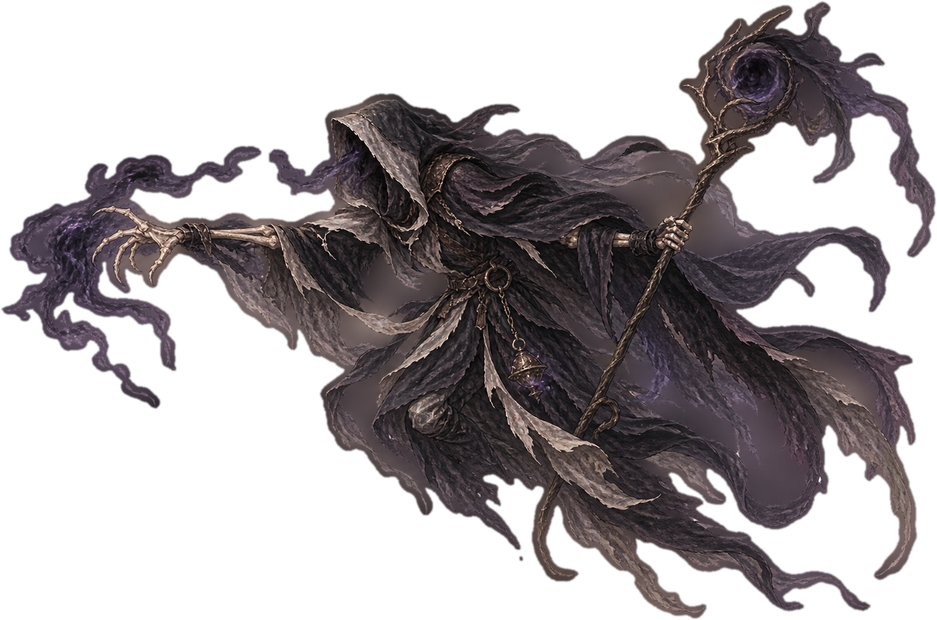
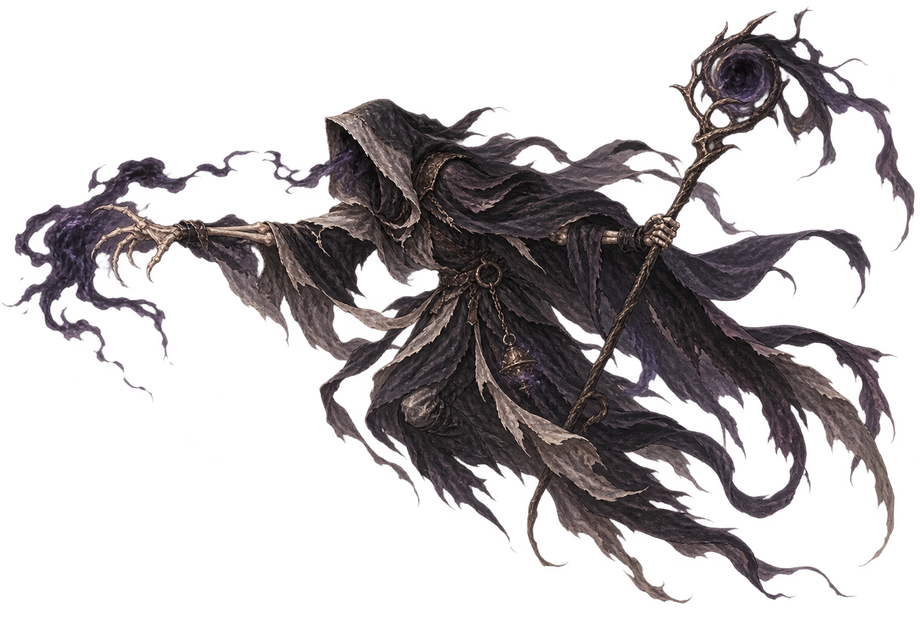
Build 217: fix squashed foe plates + restore the art's own transparency
Two defects, both mine.

TRANSPARENCY — the uploaded plates were already RGBA with real alpha.
Build 216 ran them through convert("RGB"), which DISCARDED that alpha,
then hand-derived a worse mask by detail-keying a "dark vignette" that
was only ever the image viewer compositing transparency onto black.
The plates are now rebuilt from the originals with their own alpha kept
— trimmed to the subject and resized to 620px, nothing else touched.

SQUASHING — the plate CSS was written for a <div> with background-image;
game.js later switched to an <img>, and the follow-up CSS edit silently
failed to apply. So the stylesheet still said `background-size: contain`
(inert on an <img>) while the <img> fell back to `object-fit: fill`,
stretching a 1.49:1 painting into a 0.89:1 slot — a ~40% horizontal
squash. Measured rendered aspect 0.89 vs natural 1.49; now 1.49 → 1.49.

Fit strategy: `contain` in that narrow slot would render a foe at ~60%
height — correct but timid — so plates fit to HEIGHT at natural aspect
and bleed sideways (capped at 168%) into the empty air between figures,
which is where the trailing cloaks live anyway.

Also resynced this branch, which had fallen behind main.

Claude-Session: https://claude.ai/code/session_01HVC1CsNs8KGkEP8oKPSikp

Changed region(s): [[0.0, 0.0, 1.0, 1.0]]

diff --git a/v2.1/styles.css b/v2.1/styles.css
@@ -3267,16 +3267,27 @@ html.diag-nofilter *, html.diag-nofilter *::before, html.diag-nofilter *::after 
    added row (or a device inset) pushed items off-screen. */
 #overlay.menu-screen #overlay-inner { max-height: 92%; display: flex; flex-direction: column; }
 #overlay.menu-screen .menu-list { overflow-y: auto; min-height: 0; padding: 2px; -webkit-overflow-scrolling: touch; }
-/* PAINTED FOE PLATES (Build 215) — a commissioned PNG stands in for the vector
-   silhouette.  Bottom-anchored and contained so a foe reads as standing ON the
-   line like the hero figures, with the same drop shadow so the two art styles
-   sit in one world. */
-.figure .fig-art .fig-png {
-  width: 100%; height: 100%;
-  background-repeat: no-repeat; background-position: center bottom; background-size: contain;
+/* PAINTED FOE PLATES (Build 217) — the plate is an <img>, so it needs
+   object-fit: WITHOUT it the browser defaults to `fill` and stretches a
+   1.5:1 painting into a ~0.9:1 slot (the squashed foes).  It also stays
+   hidden until it has really loaded, so a missing file leaves the vector
+   silhouette on screen instead of a hole. */
+.fig-png { display: none; }
+.fig-png.fig-png-on { display: block; }
+.figure .fig-art .fig-png.fig-png-on {
+  /* Fit to HEIGHT at natural aspect: these paintings are ~1.5:1 (long trailing
+     cloaks), and letting `contain` fit the narrow slot would render the foe at
+     ~60% height — small and timid.  The overflow bleeds sideways into the empty
+     air between figures, which is where the cloaks live anyway. */
+  position: absolute; left: 50%; bottom: 0; transform: translateX(-50%);
+  height: 100%; width: auto; max-width: 168%;
+  object-fit: contain; object-position: center bottom;
   filter: drop-shadow(0 6px 14px rgba(0,0,0,0.7));
 }
-.figure.floor-boss .fig-art .fig-png { filter: drop-shadow(0 14px 30px rgba(0,0,0,0.9)) drop-shadow(0 0 40px rgba(190,44,40,0.45)); }
+/* once a plate is up, the vector beneath it stands down */
+.figure .fig-art:has(.fig-png-on) .fig-vec { display: none; }
+.figure.floor-boss .fig-art .fig-png.fig-png-on { filter: drop-shadow(0 14px 30px rgba(0,0,0,0.9)) drop-shadow(0 0 40px rgba(190,44,40,0.45)); }
 /* the bestiary thumbnail uses the same plate at card scale */
-.bj-fig.bj-foe .fig-png { width: 100%; height: 100%; min-height: 40px; background-position: center; }
-.bj-entry.bj-locked .bj-fig.bj-foe .fig-png { filter: brightness(0.12) contrast(1.3); }
+.bj-fig.bj-foe .fig-png.fig-png-on { width: 100%; height: 100%; min-height: 40px; object-fit: contain; }
+.bj-fig.bj-foe:has(.fig-png-on) .fig-vec { display: none; }
+.bj-entry.bj-locked .bj-fig.bj-foe .fig-png.fig-png-on { filter: brightness(0.12) contrast(1.3); }

diff --git a/v2.1/game.js b/v2.1/game.js
@@ -21,7 +21,7 @@
 
 'use strict';
 
-const V2_BUILD = 216;   // MUST match version.json's "v2.1" — the update-check compares them. Bump BOTH every build.
+const V2_BUILD = 217;   // MUST match version.json's "v2.1" — the update-check compares them. Bump BOTH every build.
 const CHARGE_CAP = 4;   // Hask (Black Mage) — max CHARGE stacks
 const CHARGE_DMG = 3;   // damage per CHARGE spent by an OVERLOAD nuke
 const MISFIRE_PER_CHARGE = 2;   // self-damage per ◆ CHARGE if Hask MOVES mid-channel (no Steady Cast)

diff --git a/v2.1/index.html b/v2.1/index.html
@@ -39,7 +39,7 @@
         <div id="combat-boons"></div>
         <div id="timeline"></div>
         <button id="menu-btn" aria-label="Menu" title="Menu">☰</button>
-        <div id="build-stamp">V2.1 BUILD 216</div>
+        <div id="build-stamp">V2.1 BUILD 217</div>
       </header>
       <div id="narrator"></div>
 
@@ -79,6 +79,6 @@
   </div>
 
   <script src="portraits.js?v=3"></script>
-  <script src="game.js?v=425"></script>
+  <script src="game.js?v=426"></script>
 </body>
 </html>
